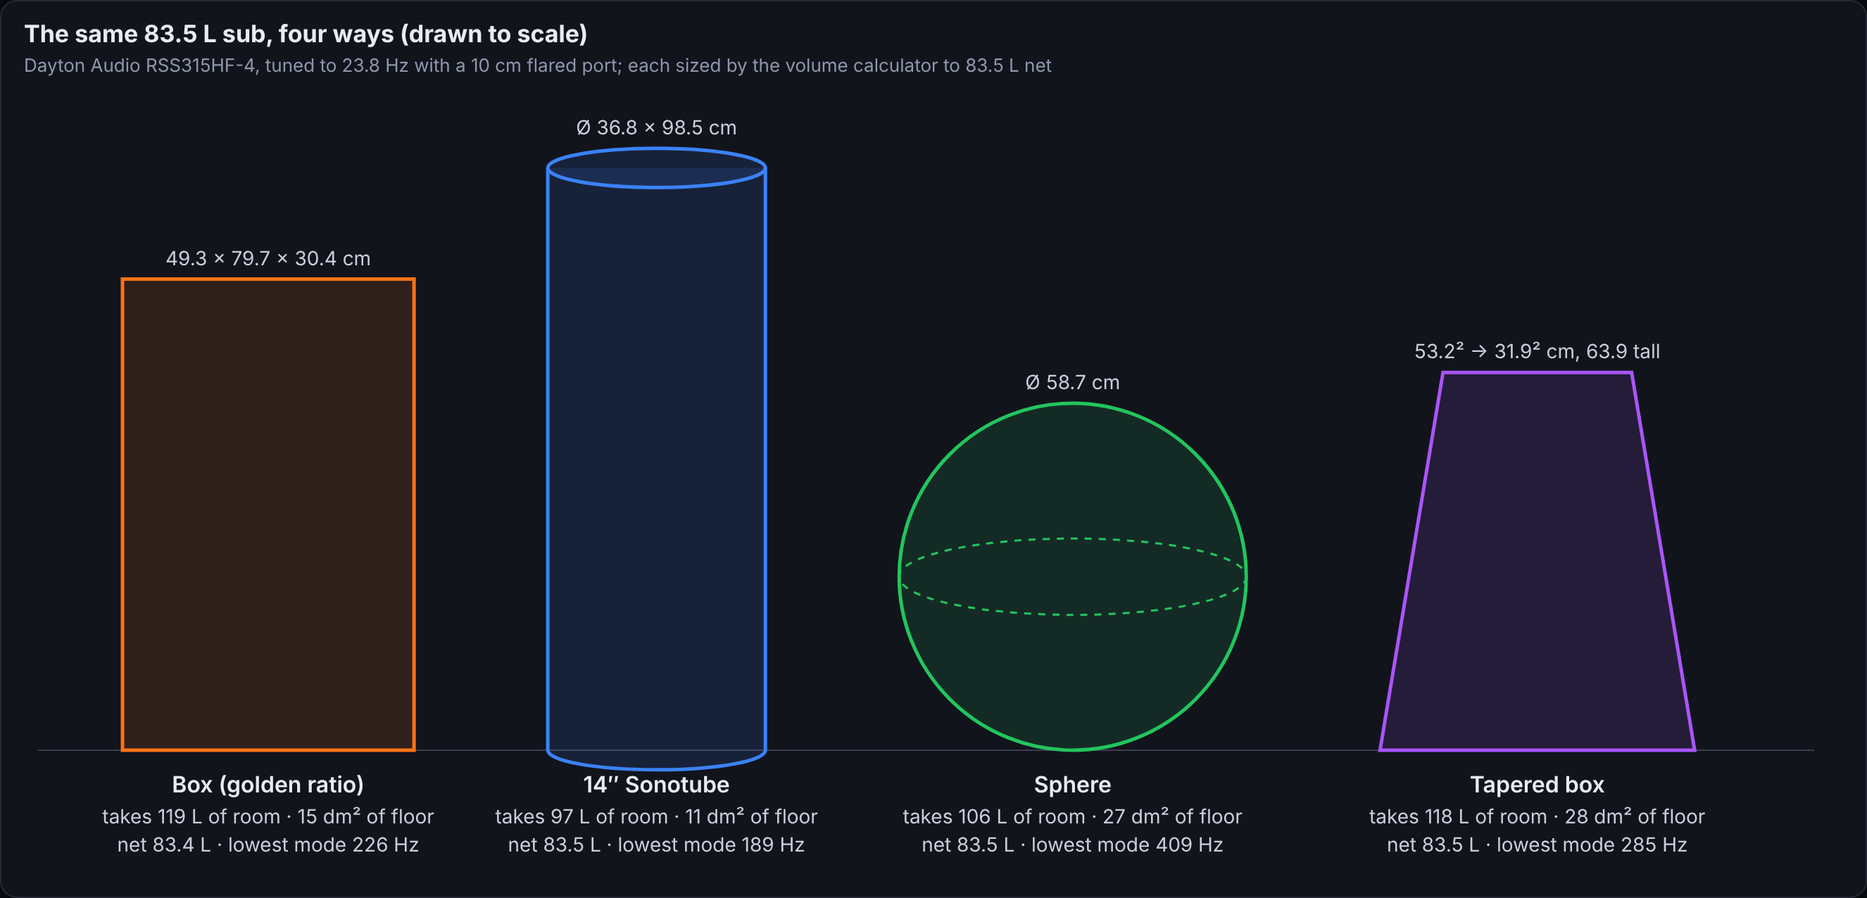
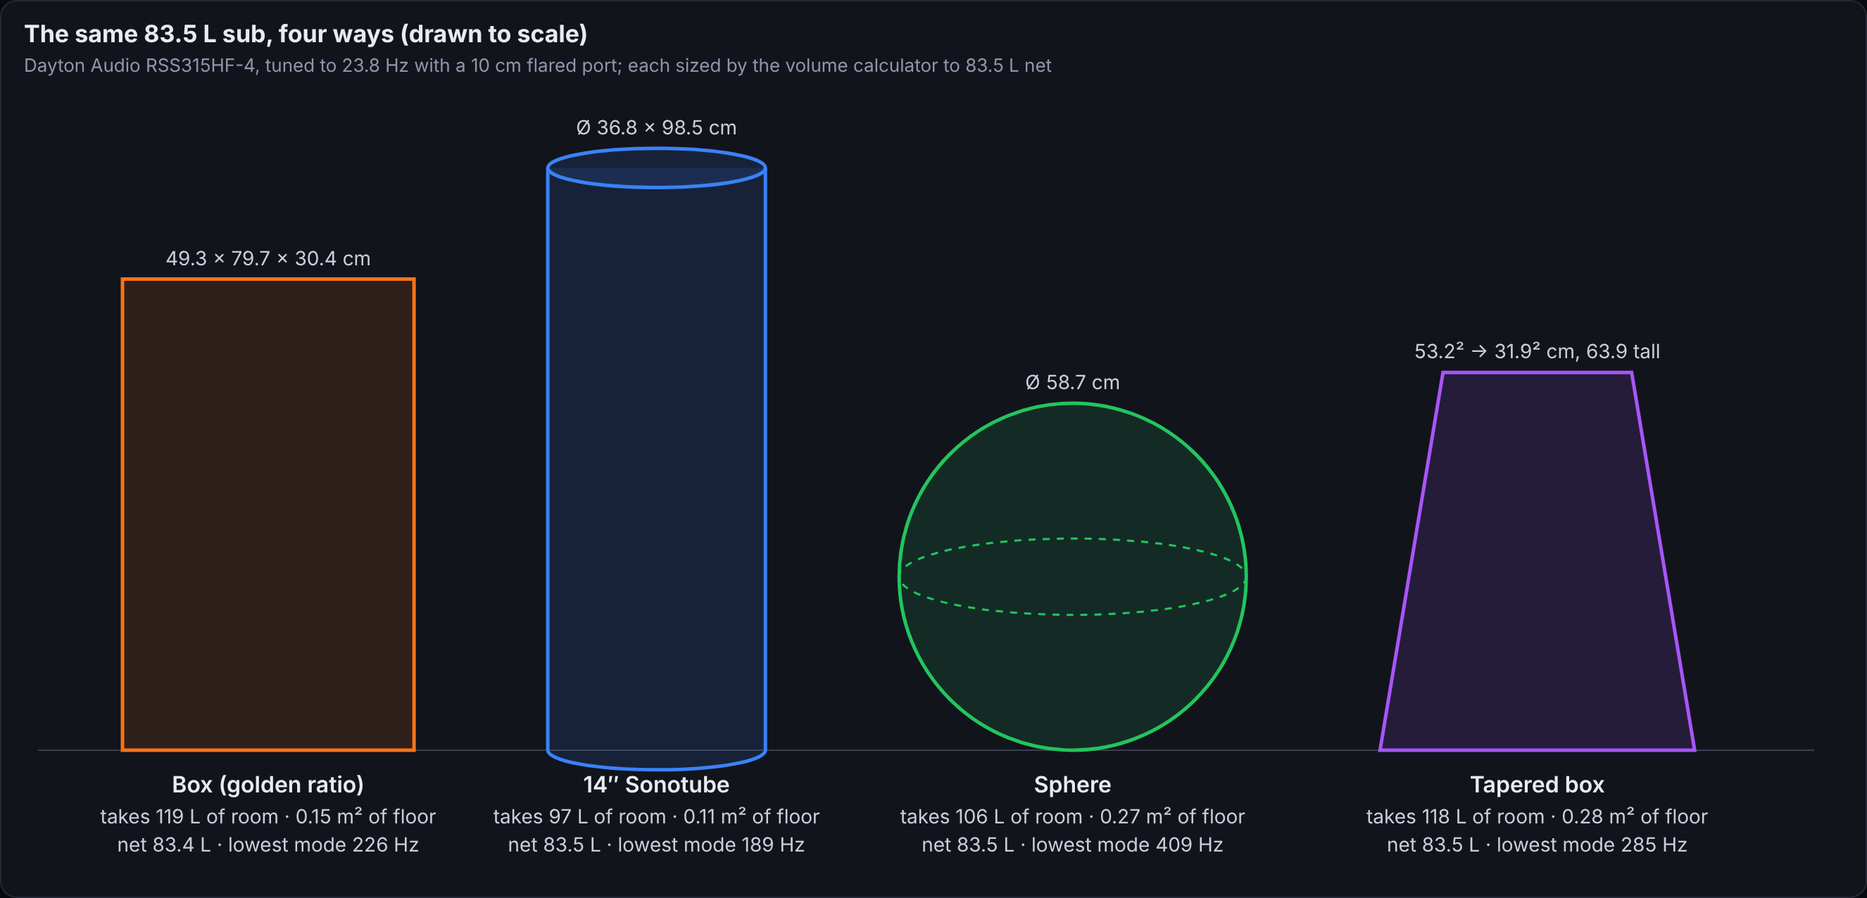
Guides: nested lists render; shaped-cabinets readability pass
- The site's Markdown had no nested lists: an indented "  - item" was joined
  onto its parent with a literal hyphen (shaped-cabinets and baffle-step,
  10 lines). Indented lists now nest, in bullet and numbered lists; a test
  checks the rendering and that no guide's list item swallows one again.
- Shaped cabinets, from reader feedback: units in the table's row labels,
  m² for floor space (figure too), Fb and F3 as two bold rows, formulas in
  code, a note for "the tube you build doesn't change", verdict words in the
  claims table, button labels, a shorter lede, a concrete sloping-wall
  example (18 mm at 45° → 25.5 mm; at the example's 9.5°, 18.25 mm),
  "where → what" app steps, and no history of what the app used to do.

Claude-Session: https://claude.ai/code/session_014Z7ytzgKDyb9k1o8CWjVtJ

Changed region(s): [[0.0618, 0.8864, 0.4329, 0.9169], [0.7112, 0.8864, 0.9276, 0.9169], [0.4638, 0.8864, 0.6802, 0.9169]]

diff --git a/site/guideNumbers.test.ts b/site/guideNumbers.test.ts
@@ -285,10 +285,10 @@ test("shaped cabinets guide: four shapes sized to the same net volume, their siz
   const { grossVolume, insideLongest_cm, lowestMode_hz } = await import("../packages/engine/src/index.ts");
   const { shapeOf, volumeFor, linkedDesign } = await import("../packages/web/src/sim.ts");
   const want = {
-    "shape-box": { dims: [49.3, 79.7, 30.4], gross: 93.2, net: 83.4, outer: 119, foot: 15.0, long: 76.1, mode: 226 },
-    "shape-tube": { dims: [36.8, 98.5], gross: 90.48, net: 83.5, outer: 97, foot: 10.6, long: 90.9, mode: 189 },
-    "shape-sphere": { dims: [58.7], gross: 90.48, net: 83.5, outer: 106, foot: 27.1, long: 55.7, mode: 409 },
-    "shape-wedge": { dims: [53.2, 53.2, 31.9, 31.9, 63.9], gross: 93.28, net: 83.5, outer: 118, foot: 28.3, long: 60.3, mode: 285 },
+    "shape-box": { dims: [49.3, 79.7, 30.4], gross: 93.2, net: 83.4, outer: 119, foot: 0.15, long: 76.1, mode: 226 },
+    "shape-tube": { dims: [36.8, 98.5], gross: 90.48, net: 83.5, outer: 97, foot: 0.11, long: 90.9, mode: 189 },
+    "shape-sphere": { dims: [58.7], gross: 90.48, net: 83.5, outer: 106, foot: 0.27, long: 55.7, mode: 409 },
+    "shape-wedge": { dims: [53.2, 53.2, 31.9, 31.9, 63.9], gross: 93.28, net: 83.5, outer: 118, foot: 0.28, long: 60.3, mode: 285 },
   } as const;
   for (const [name, w] of Object.entries(want)) {
     const s = EXAMPLES[name]!();
@@ -301,7 +301,7 @@ test("shaped cabinets guide: four shapes sized to the same net volume, their siz
     near(r.net_l, w.net, 0.06, `${name} net`);
     near(grossVolume(sh, 0), w.outer, 0.5, `${name} outside volume`);
     const foot = v.shape === "box" || v.shape === "frustum" ? v.width_cm * v.depth_cm : Math.PI * (v.diameter_cm / 2) ** 2;
-    near(foot / 100, w.foot, 0.05, `${name} footprint`);
+    near(foot / 10000, w.foot, 0.005, `${name} floor space (m²)`);
     near(insideLongest_cm(sh, v.wall_mm), w.long, 0.05, `${name} longest run`);
     near(lowestMode_hz(sh, v.wall_mm, 343.6), w.mode, 0.5, `${name} lowest mode`);
     const d = run(name)[0]!.result.summary;
@@ -328,4 +328,10 @@ test("shaped cabinets guide: four shapes sized to the same net volume, their siz
   near(naive(0), 60, 1e-9, "frustum formula on it");
   near((naive(0.5) / wedge(0.5) - 1) * 100, -1.9, 0.05, "half-deep top");
   near(grossVolume({ kind: "frustum", bottomWidth_cm: 50, bottomDepth_cm: 50, topWidth_cm: 0, topDepth_cm: 0, height_cm: 40 }, 18), 22.0, 0.05, "pyramid inside");
+  // A sloping board is t / cos θ wide across: 45°, and the example's tapered box.
+  near(18 / Math.cos(Math.PI / 4), 25.5, 0.05, "18 mm at 45°");
+  const wv = EXAMPLES["shape-wedge"]!().volume;
+  const slope = Math.atan((wv.width_cm - wv.topWidth_cm) / 2 / wv.height_cm);
+  near((slope * 180) / Math.PI, 9.5, 0.05, "example slope");
+  near(18 / Math.cos(slope), 18.25, 0.005, "18 mm at the example slope");
 });

diff --git a/site/build.ts b/site/build.ts
@@ -88,7 +88,7 @@ function inline(s: string): string {
 }
 
 /**
- * Block Markdown: headings (#–###), paragraphs, - and 1. lists, > notes, | tables |,
+ * Block Markdown: headings (#–###), paragraphs, - and 1. lists (nested by indenting), > notes, | tables |,
  * ``` code blocks, and button lines ([[Label|example]]), already resolved to links.
  */
 export function markdown(md: string): string {
@@ -131,9 +131,16 @@ export function markdown(md: string): string {
       const items: string[] = [];
       while (i < lines.length && (ordered ? /^\d+\. /.test(lines[i]!) : /^[-*] /.test(lines[i]!))) {
         let item = lines[i]!.replace(/^([-*]|\d+\.) /, "");
-        // Continuation lines (indented) belong to the item.
-        for (i++; i < lines.length && /^ {2,}\S/.test(lines[i]!); i++) item += " " + lines[i]!.trim();
-        items.push(`<li>${inline(item)}</li>`);
+        // Continuation lines (indented) belong to the item; an indented list starts a nested
+        // list, which takes every indented line after it.
+        const nested: string[] = [];
+        for (i++; i < lines.length && /^ {2,}\S/.test(lines[i]!); i++) {
+          if (nested.length === 0 && !/^ {2,}([-*]|\d+\.) /.test(lines[i]!)) item += " " + lines[i]!.trim();
+          else nested.push(lines[i]!);
+        }
+        const indent = nested.length ? /^ */.exec(nested[0]!)![0].length : 0;
+        const sub = nested.length ? markdown(nested.map((l) => l.slice(Math.min(indent, /^ */.exec(l)![0].length))).join("\n")) : "";
+        items.push(`<li>${inline(item)}${sub}</li>`);
       }
       out.push(ordered ? `<ol>${items.join("")}</ol>` : `<ul>${items.join("")}</ul>`);
       continue;

diff --git a/site/build.test.ts b/site/build.test.ts
@@ -29,6 +29,19 @@ test("markdown: headings, lists, tables, links, figures and notes", () => {
   assert.match(html, /<aside class="note"><p>A note<\/p><\/aside>/);
   assert.doesNotMatch(markdown("a <script>x</script>"), /<script>/);
   assert.match(markdown("# Title\n\nThe intro.\n\nMore."), /<h1>Title<\/h1>\n<p class="lede">The intro.<\/p>\n<p>More.<\/p>/);
+  // Nested lists: an indented list inside an item, in bullet and numbered lists; plain indented
+  // lines still continue the item.
+  assert.equal(markdown("- a\n  - b\n  - c\n    wraps\n- d"), "<ul><li>a<ul><li>b</li><li>c wraps</li></ul></li><li>d</li></ul>");
+  assert.equal(markdown("1. a\n   more\n   - b\n2. c"), "<ol><li>a more<ul><li>b</li></ul></li><li>c</li></ol>");
+  assert.equal(markdown("- a\n  continued"), "<ul><li>a continued</li></ul>");
+});
+
+test("guides: no list item swallows an indented list as text", () => {
+  for (const f of readdirSync(new URL("./pages/", import.meta.url))) {
+    if (!f.endsWith(".md")) continue;
+    const html = markdown(parsePage(readFileSync(new URL(`./pages/${f}`, import.meta.url), "utf8")).body);
+    for (const li of html.match(/<li>.*?<\/li>/g) ?? []) assert.doesNotMatch(li, /\s-\s<strong>|<\/strong>\s-\s/, `${f}: ${li.slice(0, 80)}`);
+  }
 });
 
 test("pages need front matter; unknown examples are an error", () => {

diff --git a/site/pages/shaped-cabinets.md b/site/pages/shaped-cabinets.md
@@ -9,16 +9,16 @@ group: start
 
 # Non-rectangular speaker cabinets: cylinders, spheres and tapered boxes
 
-A box simulator only needs one number from your cabinet: the **net internal volume**, the air left after the walls, the driver, the port and the bracing. For a rectangular MDF box that's easy. For a Sonotube sub, a sphere or a tapered wedge, it's where builds go wrong: the tube is sold by its inside diameter, the end caps are thicker than the tube, a sloping wall is thicker than it looks, and the usual frustum formula is wrong for a wedge. This guide works through all of it on one sub, built four ways, and shows what the shape changes and what it doesn't.
+A box simulator only needs one number from your cabinet: the **net internal volume**, the air left after the walls, the driver, the port and the bracing. For a rectangular MDF box that's easy. For a Sonotube, a sphere or a tapered wedge, it's where builds usually go wrong. Sonotube is sold by its inside diameter, its end caps are much thicker than the tube, a sloping wall is wider across than the board is thick, and the usual frustum formula doesn't work on a wedge. This guide works through all of it on one sub built four ways, and shows what the shape changes and what it doesn't.
 
-[[Open the box|shape-box]] [[the Sonotube|shape-tube]] [[the sphere|shape-sphere]] [[the tapered box|shape-wedge]]
+[[Open the box|shape-box]] [[Open the Sonotube|shape-tube]] [[Open the sphere|shape-sphere]] [[Open the tapered box|shape-wedge]]
 
 ## The short answer
 
 - **For the bass, only the net volume matters.** Box, tube, sphere or wedge with the same net volume and port give the same simulated response. The shape matters for how the cabinet is built, how much room it takes and where its internal standing waves fall.
 - **Get the inside right:**
   - **Sonotube** is sold by its **inside** diameter, and the end caps are usually two layers of MDF while the tube wall is about 6 mm. Enter the outside diameter and both thicknesses.
-  - **Tapered walls** are thicker across than square to their face, and the inside of a steep pyramid closes before its top.
+  - **Sloping walls** are wider across than the board is thick (18 mm at 45° takes 25.5 mm), and the inside of a steep pyramid closes before its top.
   - **A wedge** (top and bottom different shapes) needs the prismoidal formula. The common frustum formula is up to 33% low.
 - **Shape moves standing waves; it doesn't remove them.** A sphere's lowest is 32% higher than a box of the same inside length would have; a long tube's is along its length. Non-parallel walls shift and spread them [7][8].
 - **In the app:** **Build → Volume calculator** handles all four shapes, takes off everything inside, sizes the cabinet for a target volume and feeds the result straight into the design.
@@ -31,16 +31,17 @@ The [port chuffing guide](/guides/port-chuffing/)'s sub: a **Dayton Audio RSS315
 
 | | Box | 14″ Sonotube | Sphere | Tapered box |
 |---|---|---|---|---|
-| Outside | 49.3 × 79.7 × 30.4 cm | Ø 36.8 × 98.5 cm | Ø 58.7 cm | 53.2 × 53.2 cm base, 31.9 × 31.9 top, 63.9 tall |
-| Walls | 18 mm MDF, 3% bracing | 6 mm tube, 38 mm end caps | 15 mm shell | 18 mm MDF, 3% bracing |
-| Gross internal | 93.20 L | 90.48 L | 90.48 L | 93.28 L |
-| − driver, port, bracing | 3.01 + 4.02 + 2.80 L | 3.01 + 4.02 L | 3.01 + 4.02 L | 3.01 + 4.02 + 2.80 L |
-| **Net** | **83.4 L** | **83.5 L** | **83.5 L** | **83.5 L** |
-| Takes up (outside volume) | 119 L | 97 L | 106 L | 118 L |
-| Floor space | 15.0 dm² | 10.6 dm² | 27.1 dm² | 28.3 dm² |
-| Longest straight run inside | 76.1 cm | 90.9 cm | 55.7 cm | 60.3 cm |
-| Lowest standing wave | 226 Hz | 189 Hz | 409 Hz | ~285 Hz |
-| Tuning, F3 | 23.8 Hz, 24.5 Hz | 23.8 Hz, 24.5 Hz | 23.8 Hz, 24.5 Hz | 23.8 Hz, 24.5 Hz |
+| Outside (cm) | 49.3 × 79.7 × 30.4 | Ø 36.8, 98.5 long | Ø 58.7 | base 53.2 × 53.2, top 31.9 × 31.9, 63.9 tall |
+| Walls (mm) | 18 MDF, plus 3% bracing | 6 tube, 38 end caps | 15 shell | 18 MDF, plus 3% bracing |
+| Gross internal (L) | 93.20 | 90.48 | 90.48 | 93.28 |
+| − driver + port + bracing (L) | 3.01 + 4.02 + 2.80 | 3.01 + 4.02 | 3.01 + 4.02 | 3.01 + 4.02 + 2.80 |
+| **Net (L)** | **83.4** | **83.5** | **83.5** | **83.5** |
+| Takes up, outside (L) | 119 | 97 | 106 | 118 |
+| Floor space (m²) | 0.15 | 0.11 | 0.27 | 0.28 |
+| Longest straight run inside (cm) | 76.1 | 90.9 | 55.7 | 60.3 |
+| Lowest standing wave (Hz) | 226 | 189 | 409 | ~285 |
+| **Tuning, Fb (Hz)** | **23.8** | **23.8** | **23.8** | **23.8** |
+| **F3, −3 dB (Hz)** | **24.5** | **24.5** | **24.5** | **24.5** |
 
 The driver's displacement (3.01 L) is the app's estimate from its 282 mm cutout and 146 mm depth; the port tube takes 4.02 L with 3 mm walls.
 
@@ -53,10 +54,10 @@ What the table shows:
 
 ### Cylinder (Sonotube)
 
-The inside volume is **π r² L**, with r the *inside* radius and L the length *between the end caps*. Three things trip people up:
+The inside volume is `V = π r² L`, with r the *inside* radius and L the length *between the end caps*. Three things trip people up:
 
 1. **Sonotube is sold by its inside diameter.** A 14″ tube is 14″ (35.6 cm) *inside*, at least [2][3]. The app asks for the outside diameter, so add twice the wall: 35.6 + 2 × 0.6 = 36.8 cm here.
-2. **The end caps aren't the tube wall.** Builders typically use two layers of 18–19 mm MDF for each cap [4][5]; the tube wall is about 6 mm [6]. The calculator now has a separate **End caps** field.
+2. **The end caps aren't the tube wall.** Builders typically use two layers of 18–19 mm MDF for each cap [4][5]; the tube wall is about 6 mm [6]. The calculator has a separate **End caps** field for them.
 3. **Caps inside the tube shorten it.** Measure the outside length from cap to cap; the calculator takes both caps off.
 
 Getting it wrong by one of these is about 7% of the volume on this tube:
@@ -67,7 +68,7 @@ Getting it wrong by one of these is about 7% of the volume on this tube:
 | One thickness (6 mm) for the tube and caps | 89.8 L | 22.9 Hz |
 | The nominal 14″ (35.6 cm) typed as the outside | 77.5 L | 24.7 Hz |
 
-In both wrong cases the tube you build is still 83.5 L and tunes to 23.8 Hz; it's the simulation, and anything you size from it, that's off.
+> **The tube you build doesn't change.** In both wrong cases it's still 83.5 L and tunes to 23.8 Hz. It's the simulation, and anything you size from it, that's off.
 
 A tube needs little or no bracing. The pressure inside pulls the wall in tension around its circumference, where a flat panel would bow [9][10]. The **end caps** are the flat panels in a tube sub, and the place builders report vibration [5].
 
@@ -75,7 +76,7 @@ A tube needs little or no bracing. The pressure inside pulls the wall in tension
 
 ### Sphere
 
-**V = (4/3) π r³**, with r the inside radius: the outside radius less the shell. A sphere has the smoothest edge diffraction of any shape: Olson's 1951 measurements of twelve cabinet shapes found the sphere's response the smoothest [11] (see [baffle step loss](/guides/baffle-step/) for what a flat front panel does instead). Building one is harder:
+`V = (4/3) π r³`, with r the inside radius: the outside radius less the shell. A sphere has the smoothest edge diffraction of any shape: Olson's 1951 measurements of twelve cabinet shapes found the sphere's response the smoothest [11] (see [baffle step loss](/guides/baffle-step/) for what a flat front panel does instead). Building one is harder:
 - **A flat for the driver.** The driver needs a flat mounting ring, which takes a little volume; put it in **Other**.
 - **The port.** The longest straight run is the inside diameter, and a long port has to pass through the middle. Here 45.5 cm of port in a 55.7 cm sphere only just fits; a bigger port or lower tuning won't.
 - **Footprint.** A 58.7 cm ball needs a stand and covers more floor than the box.
@@ -86,12 +87,12 @@ Enter the bottom and top width and depth and the height. Two shortcuts give the 
 
 ![Error of two shortcuts against the exact inside volume, by the size of the top as a percentage of the bottom: taking 18 mm walls off as if they were upright (orange) is up to 19% high for a near-pyramid; the similar-bases frustum formula on a wedge (blue) is up to 33% low.](img/shaped-cabinets-shortcuts.png)
 
-1. **The frustum formula.** V = h/3 (A₁ + A₂ + √(A₁A₂)) is exact only when the top and bottom are similar rectangles, the same shape scaled [13]. A wedge, where only the depth tapers, isn't. The formula that works for any rectangular top and bottom is the **prismoidal formula** [12][13]:
-   - V = h/6 (A₁ + 4M + A₂), where M is the area halfway up.
+1. **The frustum formula.** `V = h/3 (A₁ + A₂ + √(A₁A₂))` is exact only when the top and bottom are similar rectangles, the same shape scaled [13]. A wedge, where only the depth tapers, isn't. The formula that works for any rectangular top and bottom is the **prismoidal formula** [12][13]:
+   - `V = h/6 (A₁ + 4M + A₂)`, where M is the area halfway up.
    - For a wedge 60 × 60 cm at the bottom, 50 cm tall, closing to a 60 cm edge at the top (a floor-monitor shape), the frustum formula gives 60 L; the true volume is 90 L, so the formula is **33% low**. With a top half as deep, it's still 1.9% low.
-2. **Taking the walls off as if they were upright.** A sloping wall 18 mm thick measures more than 18 mm across horizontally, and the inside bottom and top sit 18 mm in from the outside ones, where the outside is already narrower or wider. For gentle tapers the error is small (0.5% on the example's tapered box), but for a steep one it isn't:
+2. **Taking the walls off as if they were upright.** A board leaning at an angle θ is `t / cos θ` wide across: 18 mm MDF at 45° takes 25.5 mm, and at the example's 9.5° slope, 18.25 mm. The inside bottom and top also sit 18 mm in from the outside ones, where the outside is already narrower or wider. For gentle tapers the shortcut's error is small (0.5% on the example's tapered box), but for a steep one it isn't:
    - A 50 × 50 cm, 40 cm tall pyramid in 18 mm MDF: the upright-wall shortcut gives 26.1 L; the true inside is 22.0 L, so the shortcut is **19% high**.
-   - The app used this shortcut until this guide's checks; it now works out the true inside, and stops where a steep pyramid's inside closes before its top.
+   - The app works out the true inside, and stops where a steep pyramid's inside closes before its top.
 
 **One sloped face or two:** a wedge sloped only at the front holds the same as one sloped evenly front and back with the same top and bottom (Cavalieri's principle), and the wall correction differs by a fraction of a millimetre. Enter its depth at the top and the bottom.
 
@@ -101,13 +102,15 @@ Inside any cabinet the air has its own resonances, from about half a wavelength 
 
 | Shape | Lowest standing wave | Here |
 |---|---|---|
-| Box | c / 2L, L the longest inside dimension | 226 Hz (76.1 cm tall) |
-| Cylinder | c / 2L along it, or 1.841 c / (π D) across it [15], whichever is lower | 189 Hz along; 565 Hz across |
-| Sphere | 2.082 c / (π D) [14] | 409 Hz (55.7 cm inside) |
-| Tapered box | about c / 2L for its longest run; the taper moves them | ~285 Hz |
+| Box | `c / 2L`, L the longest inside dimension | 226 Hz (76.1 cm tall) |
+| Cylinder | `c / 2L` along it, or `1.841 c / (π D)` across it [15], whichever is lower | 189 Hz along; 565 Hz across |
+| Sphere | `2.082 c / (π D)` [14] | 409 Hz (55.7 cm inside) |
+| Tapered box | about `c / 2L` for its longest run; the taper moves them | ~285 Hz |
+
+c is the speed of sound (343 m/s at 20 °C), L and D the inside length and diameter in metres.
 
 So:
-- **A sphere's lowest mode is 32% higher** than half a wavelength across its diameter, because the wave has to go round as well as across. The app's port checks used the half-wavelength rule for every shape; they now use the right one for spheres and tubes.
+- **A sphere's lowest mode is 32% higher** than half a wavelength across its diameter, because the wave has to go round as well as across. The app's port checks use each shape's own lowest mode.
 - **A long tube rings along its length.** A sub crossed over at 80–100 Hz is well clear, but a tube used for a midbass isn't.
 - **Non-parallel walls don't remove standing waves.** They change their frequencies and spread them out, which can lower the peaks, but every enclosed space has resonances [7][8]. Damping material on the walls is what lowers them.
 
@@ -117,12 +120,12 @@ The port's own pipe resonance (here 346 Hz) and the cabinet's lowest mode are bo
 
 ![The volume calculator for the Sonotube: 36.8 cm outside, 98.5 cm long, 6 mm wall, 38 mm end caps, the driver and port taken off: 83.45 L net.](img/shaped-cabinets-app.png)
 
-1. **Build → Volume calculator.** Under **Used by**, pick the design; its volume then follows the calculator.
-2. **Shape:** Box, Cylinder (sonotube), Sphere or Truncated pyramid. Enter the **outside** sizes.
-3. **Walls:** the wall thickness; for a tube, the **End caps** too (they follow the wall until you change them).
-4. **Takes up space inside:** the driver's displacement (filled in from the database or estimated), bracing, anything else. The design's own port tubes or passive radiators are taken off automatically; **Port wall** and **Each PR** only show when the design has them.
-5. **Size the box:** enter the **Target** net volume and press **Size the box**. A box can use golden-ratio proportions; a tube keeps its diameter and finds its length.
-6. **Check the port:** on the design, the **Port too long to fit** warning uses the shape's real longest straight run, and **Pipe resonance** gives the cabinet's lowest standing wave.
+1. **Build → Volume calculator → Used by:** pick the design. Its volume now follows the calculator.
+2. **Shape:** pick Box, Cylinder (sonotube), Sphere or Truncated pyramid, then enter the **outside** sizes.
+3. **Walls:** enter the wall thickness. For a tube, also enter **End caps** (it follows the wall until you change it).
+4. **Takes up space inside:** check the driver's displacement (from the database, or estimated), **Bracing** and **Other**. The design's ports or passive radiators are taken off automatically; **Port wall** and **Each PR** only show when it has them.
+5. **Size the box → Target:** enter the net volume you want and press **Size the box**. A box can use golden-ratio proportions; a tube keeps its diameter and finds its length.
+6. **Boxes → the design's port:** **Port too long to fit** uses the shape's longest straight run, and **Pipe resonance** shows the cabinet's lowest standing wave.
 
 The **Cut list** is for rectangular boxes only.
 
@@ -130,12 +133,12 @@ The **Cut list** is for rectangular boxes only.
 
 | Claim | Verdict |
 |---|---|
-| "The shape changes the bass" | Not in the simulation: below the cabinet's first standing wave, only the net volume and the port matter. The four cabinets here all tune to 23.8 Hz with F3 24.5 Hz. |
-| "Sonotube volume is π r² L" | Yes, with the *inside* radius (the tube's nominal size) and the length *between* the end caps. |
-| "A tube needs no bracing" | Mostly: the wall works in tension. The flat end caps are what flex; make them thick [5][9]. |
-| "Frustum volume is h/3 (A₁ + A₂ + √A₁A₂)" | Only when the top and bottom are similar. On a wedge it's up to 33% low; use h/6 (A₁ + 4M + A₂) [12][13]. |
-| "Non-parallel walls eliminate standing waves" | No: they move and spread them [7][8]. |
-| "A sphere is the ideal shape" | It has the smoothest diffraction [11] and the highest lowest mode, but it's the hardest to build, needs a flat for the driver and has the least room for a port. |
+| "The shape changes the bass" | **No.** Not in the simulation: below the cabinet's first standing wave, only the net volume and the port matter. The four cabinets here all tune to 23.8 Hz with F3 24.5 Hz. |
+| "Sonotube volume is `π r² L`" | **Yes,** with the *inside* radius (the tube's nominal size) and the length *between* the end caps. |
+| "A tube needs no bracing" | **Mostly.** The wall works in tension. The flat end caps are what flex; make them thick [5][9]. |
+| "Frustum volume is `h/3 (A₁ + A₂ + √A₁A₂)`" | **Only for similar top and bottom.** On a wedge it's up to 33% low; use `h/6 (A₁ + 4M + A₂)` [12][13]. |
+| "Non-parallel walls eliminate standing waves" | **No.** They move and spread them [7][8]. |
+| "A sphere is the ideal shape" | **For sound, nearly; for building, no.** It has the smoothest diffraction [11] and the highest lowest mode, but it's the hardest to build, needs a flat for the driver and has the least room for a port. |
 
 ## Sources
 
